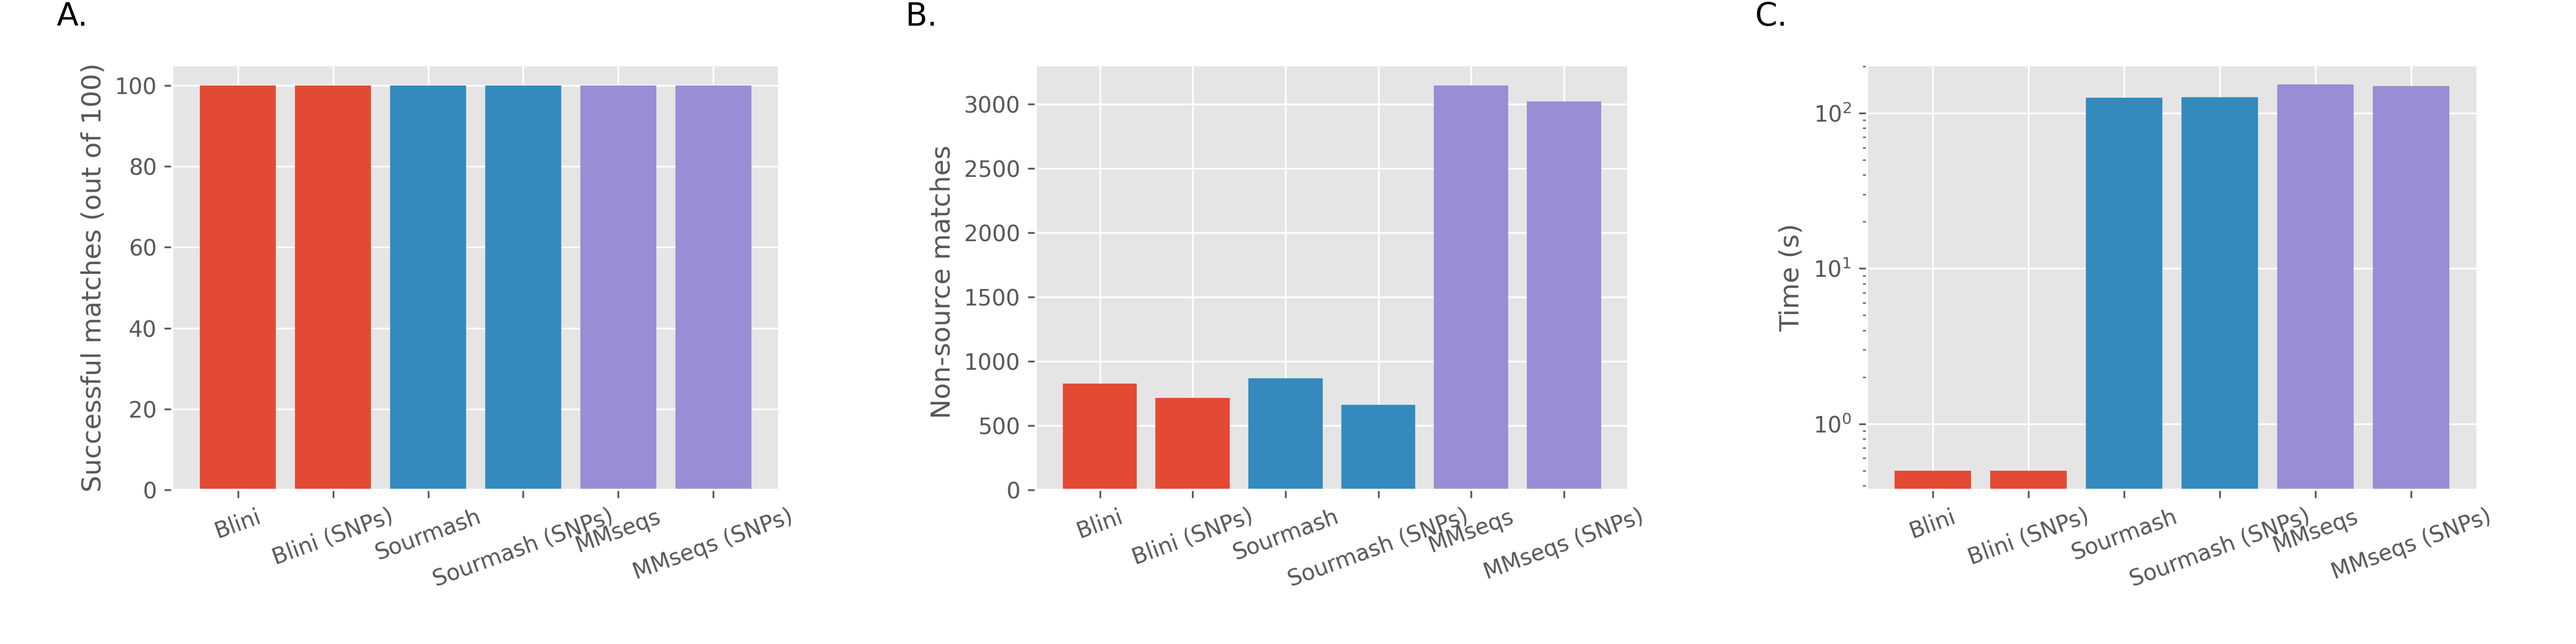
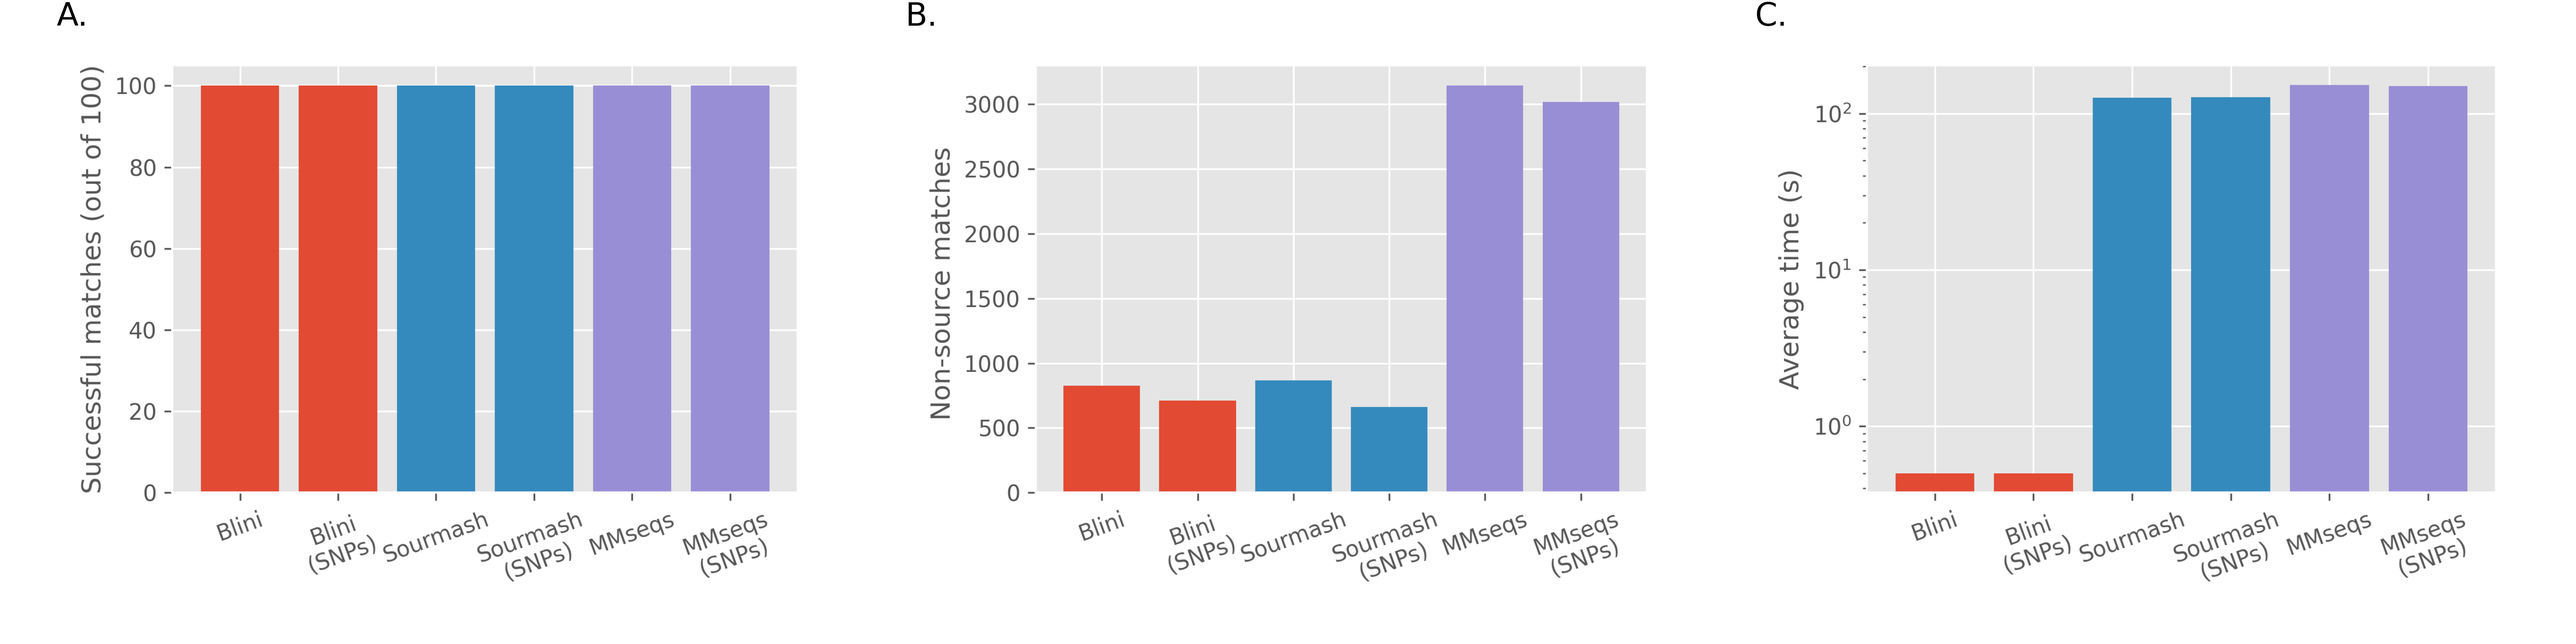
Updates to paper

diff --git a/publication/plots.py b/publication/plots.py
@@ -5,6 +5,8 @@ import numpy as np
 from matplotlib import pyplot as plt
 from myplot import ctx
 
+OUT_DIR = '../testdata/output'
+
 
 def load_table(f: str):
     d = defaultdict(list)
@@ -22,23 +24,23 @@ def load_table(f: str):
 
 
 def plot_search():
-    d = load_table('results_search.txt')
+    d = load_table('results/results_search.txt')
     print(d)
     d['name'] = [x.replace(' ', '\n') for x in d['name']]
-    with ctx('search_time', sizeratio=0.75):
+    with ctx(f'{OUT_DIR}/search_time', sizeratio=0.75):
         plt.bar(d['name'][:2], d['time_seconds'][:2])
         plt.bar(d['name'][2:4], d['time_seconds'][2:4])
         plt.bar(d['name'][4:], d['time_seconds'][4:])
         plt.yscale('log')
         plt.ylabel('Average time (s)')
         plt.xticks(rotation=20)
-    with ctx('search_found', sizeratio=0.75):
+    with ctx(f'{OUT_DIR}/search_found', sizeratio=0.75):
         plt.bar(d['name'][:2], d['source_found'][:2])
         plt.bar(d['name'][2:4], d['source_found'][2:4])
         plt.bar(d['name'][4:], d['source_found'][4:])
         plt.ylabel('Successful matches (out of 100)')
         plt.xticks(rotation=20)
-    with ctx('search_others', sizeratio=0.75):
+    with ctx(f'{OUT_DIR}/search_others', sizeratio=0.75):
         plt.bar(d['name'][:2], d['others_found'][:2])
         plt.bar(d['name'][2:4], d['others_found'][2:4])
         plt.bar(d['name'][4:], d['others_found'][4:])
@@ -48,7 +50,6 @@ def plot_search():
 
 def plot_clust(tag: str):
     d = load_table(f'results_clust_{tag}.txt')
-    # d['name'] = [x.replace(' (', '\n(') for x in d['name']]
     print(d)
     with ctx(f'clust_{tag}_time', sizeratio=0.75):
         plt.bar(d['name'][:4], d['time_seconds'][:4])
@@ -70,7 +71,7 @@ def plot_clust(tag: str):
         ylim[0] -= stretch
         ylim[1] += stretch
         plt.ylim(ylim)
-    with ctx(f'clust_{tag}_nclust', sizeratio=0.75):
+    with ctx(f'{OUT_DIR}/clust_{tag}_nclust', sizeratio=0.75):
         plt.bar(d['name'][:4], d['n_clusters'][:4])
         plt.bar(d['name'][4:], d['n_clusters'][4:])
         plt.ylabel('Number of clusters')
@@ -79,5 +80,5 @@ def plot_clust(tag: str):
 
 plt.style.use('ggplot')
 plot_search()
-# plot_clust('frag')
-# plot_clust('snps')
+plot_clust('frag')
+plot_clust('snps')

diff --git a/publication/paper/paper2.md b/publication/paper/paper2.md
@@ -25,7 +25,7 @@ abstract: |
   It is meant to help cleaning and characterizing large collections
   of sequences that would otherwise be too big to search with online tools,
   or too demanding for a local machine to process.
-  Benchmarks on real and simulated data
+  Benchmarks on simulated data
   demonstrate that it is faster than existing tools
   and requires less RAM,
   while preserving search and clustering accuracy.
@@ -138,6 +138,8 @@ In a second run, random SNPs were introduced to 1% of the genomes'
 bases, and the same test was rerun.
 For each test, the number of matches with sequences other than
 the query's source was also measured.
+The searches were run against an index of the reference dataset,
+created by each tool.
 
 All three tools were able to match all 100 queries with their sources
 in the database (Figure 1a).
@@ -152,17 +154,23 @@ Each run was repeated five times and the average run-time is reported.
 Blini completed the run in 0.5 seconds,
 Sourmash completed the run in 126 seconds,
 and MMseqs completed the run in 151 seconds (Figure 1c).
+The times shown here do not include reference-preprocessing time.
 
 ![Search results for the viral dataset.](../results/search.png)
 
 ### Clustering
 
 The clustering function was tested on two simulated datasets
-of randomly generated sequences, of lengths ranging between 10K to 1M bases.
-In one dataset each sequence had two counterparts with random SNPs.
+created from the 100 chosen genomes of the previous test.
+In one dataset each sequence had multiple counterparts with random SNPs.
 In the second dataset random fragments were extracted from
 each root sequence.
-Fragment lengths ranged from 1000 to 500K base pairs.
+In the SNPs dataset, each of the 100 original sequences had another 100
+mutated counterparts.
+Each counterpart had random SNPs in 1% of its bases.
+In the fragments dataset, each of the 100 original sequences
+had 300 random fragments extracted from it,
+of length of at least 1000 bases.
 The algorithms were expected to group each sequence with its mutated
 counterparts or with its fragments.
 Performance was evaluated using the Adjusted Rand Index (ARI).
@@ -170,25 +178,30 @@ Blini's *scale* refers to the fraction of k-mers considered
 for the operation.
 Scale 50 means that 1/50 of k-mers were used.
 
-In the SNPs dataset, both Blini and MMseqs achieved an ARI of 1.0,
-except for Blini with scale 200 which achieved an ARI of 0.998 (Figure 2a).
-Blini took on average 9.6 seconds, and MMseqs took 166 seconds with one
-thread, and 54 seconds with four threads (Figure 2b).
-In terms of memory, Blini had a maximal memory footprint of 148, 78, 30, and
-20 MB using scales 25, 50, 100 and 200 respectively.
-MMseq had a maximal memory footprint of 1000 MB on average (Figure 2c).
+In the SNPs dataset, both Blini and MMseqs achieved an ARI between 0.999 and 1.0,
+except for Blini with scale 200 which achieved an ARI of 0.997 (Figure 2b).
+Blini created 100, 100, 101 and 110 clusters using scales
+25, 50, 100 and 200 respectively.
+MMseqs created 103 clusters (Figure 2a).
+Blini took on average 10.5 seconds,
+and MMseqs took 46 seconds with one thread,
+and 14 seconds with four threads (Figure 2b).
+In terms of memory, Blini had a maximal memory footprint of 255, 129, 65, and
+38 MB using scales 25, 50, 100 and 200 respectively.
+MMseq had a maximal memory footprint of 3072 MB (Figure 2c).
 
 ![Clustering results for the SNPs dataset.](../results/clust_snps.png){width=75%}
 
 In the fragments dataset, MMseqs achieved an ARI of 1.0 while Blini
-achieved an ARI of 1.0, 0.999, 0.993 and 0.972 with scales 25, 50, 100 and 200
-(Figure 3a).
-Blini took on average 6.2 seconds, and MMseqs took 130 seconds with one
-thread, and 43 seconds with four threads (Figure 3b).
-In terms of memory, Blini had a maximal memory footprint of 58, 33, 31, and
-14 MB using scales 25, 50, 100 and 200 respectively.
-MMseq had a maximal memory footprint of 181 and 727 MB with one and four
-threads respectively (Figure 3c).
+achieved an ARI of 0.999, 0.999, 0.998 and 0.989 with scales 25, 50, 100 and 200
+(Figure 3b).
+Blini grouped the dataset into 100, 104, 135 and 386 clusters,
+while MMseqs grouped the dataset into 101 clusters (Figure 3a).
+Blini took on average 20 seconds, and MMseqs took 80 seconds with one
+thread, and 24 seconds with four threads (Figure 3c).
+In terms of memory, Blini had a maximal memory footprint of 462, 233, 119, and
+67 MB using scales 25, 50, 100 and 200 respectively.
+MMseq had a maximal memory footprint of 5632 (Figure 3d).
 
 ![Clustering results for the fragments dataset.](../results/clust_frag.png){width=75%}
 
@@ -197,38 +210,39 @@ threads respectively (Figure 3c).
 This work introduces a new technique for nucleotide sequence search and
 dereplication.
 The algorithm incorporates insights from several developments in the field,
-specifically around the use of k-mers for sequence search and ANI approximation,
+specifically around the use of k-mers for sequence search and
+average nucleotide identity (ANI) approximation,
 combined with a minimalist implementation,
 resulting in a scalable and easy to use utility.
 
-The performance benchmarks shown here demonstrate a 1700x speedup
-for search and a 15x speedup for clustering
+The performance benchmarks shown here demonstrate a 300x speedup
+for search and a 4x speedup for clustering
 in comparison to existing implementations,
 as well as a reduced memory footprint,
 while search and clustering accuracy was maintained.
 
 One drawback is that Blini does not perform alignment,
 and instead uses an approximation for ANI.
-This can be observed in Figure 3a, where clustering accuracy
+This can be observed in Figure 3a-b, where clustering accuracy
 decreased as the *scale* parameter increased beyond the recommended
 value for that dataset (see below).
 This approach trades some accuracy for scalability.
 
 The *scale* parameter controls the ratio of k-mers used in the procedure,
-and can be tweaked. 
+and it can be tweaked. 
 While higher scale values reduce CPU and RAM consumption,
 they also affect the minimal length of sequences the algorithm would be
 effective for.
 Blini is designed to work on sequences ~20 times longer than
 the selected *scale* value.
-For the default value of 200,
-sequences shorter than 4000 are likely to be accidentally missed.
-This can be seen in Figure 3a, where a decrease in clustering
+For the default scale of 100,
+sequences shorter than 2000 are likely to be falsely missed.
+This can be seen in Figure 3a-b, where a decrease in clustering
 accuracy was observed for scale >50 with fragments of size 1000.
 While the scale can be tweaked,
 this tool might not be suitable for short reads.
 
-In summary, this is a new tool for search and dereplication of large-scale
+In summary, this is a new algorithm for search and dereplication of large-scale
 sequence collections.
 It is meant to run locally on resource-limited systems while
 maintaining performance and accuracy.

diff --git a/publication/paper/paper.md b/publication/paper/paper.md
@@ -72,14 +72,10 @@ in the database.
 In a second run, random SNPs were introduced to 1% of the genomes'
 bases, and the same test was rerun.
 For each test, the number of matches with sequences other than
-the query's source was also recorded.
+the query's source was also measured.
+The times shown here do not include reference-preprocessing time.
 
-| Test | Time (s) | Successful matches | Non-source matches |
-|------|----------|--------------------|--------------------|
-| Blini | 0.4 | 98 | 254 |
-| Blini (SNPs) | 0.4 | 98 | 207 |
-| Sourmash | 681 | 97 | 244 |
-| Sourmash (SNPs) | 680 | 94 | 139 |
+![Search results for the viral dataset.](../results/search.png)
 
 ## Clustering
 
